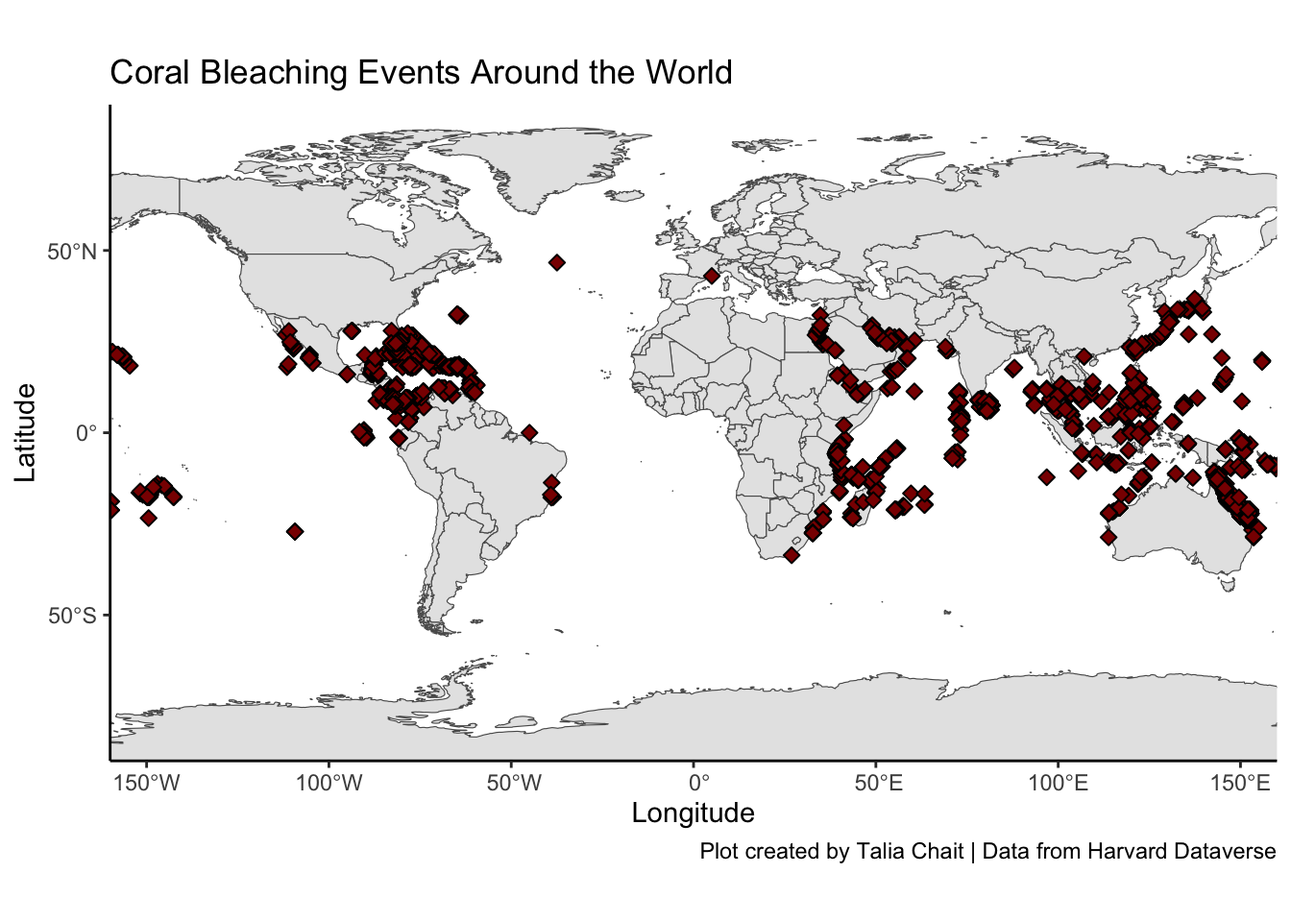
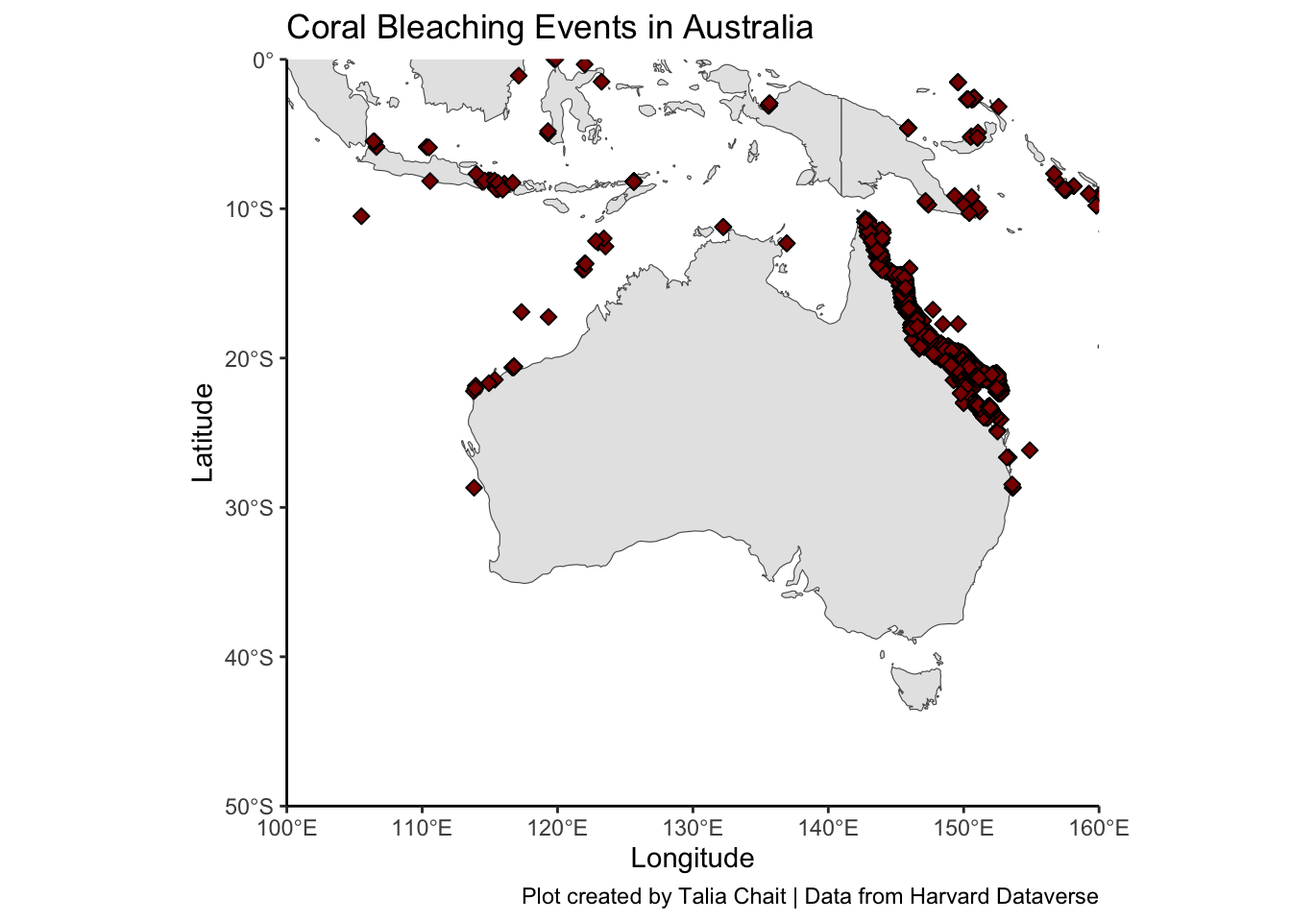
changed coral bleaching tab info

diff --git a/oceanhealth_website/_site/coralbleaching 2.html b/oceanhealth_website/_site/coralbleaching 2.html
@@ -189,6 +189,7 @@ code span.wa { color: #60a0b0; font-weight: bold; font-style: italic; } /* Warni
   <li><a href="#what-is-coral-bleaching" id="toc-what-is-coral-bleaching" class="nav-link active" data-scroll-target="#what-is-coral-bleaching">What is Coral Bleaching?</a></li>
   <li><a href="#why-is-it-important" id="toc-why-is-it-important" class="nav-link" data-scroll-target="#why-is-it-important">Why is it important?</a></li>
   <li><a href="#data-visualizations-and-results" id="toc-data-visualizations-and-results" class="nav-link" data-scroll-target="#data-visualizations-and-results">Data, Visualizations, and Results</a></li>
+  <li><a href="#australia-spatial-viz" id="toc-australia-spatial-viz" class="nav-link" data-scroll-target="#australia-spatial-viz">Australia Spatial Viz</a></li>
   <li><a href="#resources" id="toc-resources" class="nav-link" data-scroll-target="#resources">Resources</a></li>
   </ul>
 </nav>
@@ -231,8 +232,6 @@ code span.wa { color: #60a0b0; font-weight: bold; font-style: italic; } /* Warni
 <h3 class="anchored" data-anchor-id="data-visualizations-and-results">Data, Visualizations, and Results</h3>
 <p>Data was obtained from Harvard Dataverse <a href="https://dataverse.harvard.edu/file.xhtml?persistentId=doi:10.7910/DVN/KUVQKY/PAMLRZ&amp;version=1.4">(link to data)</a> which is a free data repository that is open to all researchers from any discipline (both inside and outside of Harvard University). It allows researchers to share, archive, cite, and access different data-sets. It was published to the repository in 2016 but has data from the mid 1800s.</p>
 <p>Since this data-set is on corals, the ethical issues have to do with gathering information from marine life and and how much the data collection could cause harms. While the harms are minor, the benefits of this data being collected goes well beyond the health of the corals. This is because coral bleaching is an indicator of climate change so collecting data on the health of corals could have lasting impacts on reducing global warming.</p>
-<section id="el-niñola-niña-events-and-coral-bleaching" class="level4">
-<h4 class="anchored" data-anchor-id="el-niñola-niña-events-and-coral-bleaching">El Niño/La Niña Events and Coral Bleaching</h4>
 <div class="cell">
 <details>
 <summary>Code</summary>
@@ -297,7 +296,7 @@ code span.wa { color: #60a0b0; font-weight: bold; font-style: italic; } /* Warni
 <span id="cb2-24"><a href="#cb2-24" aria-hidden="true" tabindex="-1"></a>       <span class="at">subtitle =</span> <span class="st">"(from 1991 to 2009)"</span>,</span>
 <span id="cb2-25"><a href="#cb2-25" aria-hidden="true" tabindex="-1"></a>       <span class="at">caption =</span> <span class="st">"Plot by: Talia Chait | Data Source: Harvard Dataverse"</span>,</span>
 <span id="cb2-26"><a href="#cb2-26" aria-hidden="true" tabindex="-1"></a>       <span class="at">color =</span> <span class="cn">NULL</span>) <span class="sc">+</span></span>
-<span id="cb2-27"><a href="#cb2-27" aria-hidden="true" tabindex="-1"></a>  <span class="fu">theme</span>(<span class="at">legend.position =</span> <span class="st">"none"</span>,</span>
+<span id="cb2-27"><a href="#cb2-27" aria-hidden="true" tabindex="-1"></a>   <span class="fu">theme</span>(<span class="at">legend.position =</span> <span class="st">"none"</span>,</span>
 <span id="cb2-28"><a href="#cb2-28" aria-hidden="true" tabindex="-1"></a>        <span class="at">plot.title =</span> <span class="fu">element_text</span>(<span class="at">family =</span> <span class="st">"mono"</span>, <span class="at">face =</span> <span class="st">"bold"</span>, <span class="at">size =</span> <span class="dv">12</span>, ),</span>
 <span id="cb2-29"><a href="#cb2-29" aria-hidden="true" tabindex="-1"></a>        <span class="at">plot.title.position =</span> <span class="st">"plot"</span>,</span>
 <span id="cb2-30"><a href="#cb2-30" aria-hidden="true" tabindex="-1"></a>        <span class="at">plot.caption =</span> <span class="fu">element_text</span>(<span class="at">family =</span> <span class="st">"mono"</span>),</span>
@@ -314,8 +313,8 @@ code span.wa { color: #60a0b0; font-weight: bold; font-style: italic; } /* Warni
 </div>
 </div>
 </section>
-<section id="spatial-visualizations" class="level4">
-<h4 class="anchored" data-anchor-id="spatial-visualizations">Spatial Visualizations</h4>
+<section id="australia-spatial-viz" class="level3">
+<h3 class="anchored" data-anchor-id="australia-spatial-viz">Australia Spatial Viz</h3>
 <div class="cell">
 <details>
 <summary>Code</summary>
@@ -323,7 +322,7 @@ code span.wa { color: #60a0b0; font-weight: bold; font-style: italic; } /* Warni
 <span id="cb4-2"><a href="#cb4-2" aria-hidden="true" tabindex="-1"></a>  <span class="fu">geom_sf</span>() <span class="sc">+</span></span>
 <span id="cb4-3"><a href="#cb4-3" aria-hidden="true" tabindex="-1"></a>  <span class="fu">geom_point</span>(<span class="at">data =</span> coralbleaching, <span class="fu">aes</span>(<span class="at">x =</span> LON, <span class="at">y =</span> LAT), <span class="at">size =</span> <span class="dv">2</span>, </span>
 <span id="cb4-4"><a href="#cb4-4" aria-hidden="true" tabindex="-1"></a>        <span class="at">shape =</span> <span class="dv">23</span>, <span class="at">fill =</span> <span class="st">"darkred"</span>) <span class="sc">+</span></span>
-<span id="cb4-5"><a href="#cb4-5" aria-hidden="true" tabindex="-1"></a>  <span class="fu">coord_sf</span>(<span class="at">xlim =</span> <span class="fu">c</span>(<span class="dv">100</span>, <span class="dv">160</span>), <span class="at">ylim =</span> <span class="fu">c</span>(<span class="sc">-</span><span class="dv">50</span>, <span class="dv">0</span>), <span class="at">expand =</span> <span class="cn">FALSE</span>) <span class="sc">+</span></span>
+<span id="cb4-5"><a href="#cb4-5" aria-hidden="true" tabindex="-1"></a>  <span class="fu">coord_sf</span>(<span class="at">xlim =</span> <span class="fu">c</span>(<span class="sc">-</span><span class="dv">160</span>, <span class="dv">160</span>), <span class="at">ylim =</span> <span class="fu">c</span>(<span class="sc">-</span><span class="dv">90</span>, <span class="dv">90</span>), <span class="at">expand =</span> <span class="cn">FALSE</span>) <span class="sc">+</span></span>
 <span id="cb4-6"><a href="#cb4-6" aria-hidden="true" tabindex="-1"></a>  <span class="fu">theme</span>(<span class="at">plot.title =</span> <span class="fu">element_text</span>(<span class="at">family =</span> <span class="st">"mono"</span>, <span class="at">face =</span> <span class="st">"bold"</span>, <span class="at">size =</span> <span class="dv">12</span>, ),</span>
 <span id="cb4-7"><a href="#cb4-7" aria-hidden="true" tabindex="-1"></a>        <span class="at">plot.title.position =</span> <span class="st">"plot"</span>,</span>
 <span id="cb4-8"><a href="#cb4-8" aria-hidden="true" tabindex="-1"></a>        <span class="at">plot.caption =</span> <span class="fu">element_text</span>(<span class="at">family =</span> <span class="st">"mono"</span>),</span>
@@ -331,7 +330,7 @@ code span.wa { color: #60a0b0; font-weight: bold; font-style: italic; } /* Warni
 <span id="cb4-10"><a href="#cb4-10" aria-hidden="true" tabindex="-1"></a>        <span class="at">axis.title.y =</span> <span class="fu">element_text</span>(<span class="at">family =</span> <span class="st">"mono"</span>),</span>
 <span id="cb4-11"><a href="#cb4-11" aria-hidden="true" tabindex="-1"></a>        <span class="at">axis.title.x =</span> <span class="fu">element_text</span>(<span class="at">family =</span> <span class="st">"mono"</span>, <span class="at">vjust =</span> <span class="fl">0.5</span>)) <span class="sc">+</span></span>
 <span id="cb4-12"><a href="#cb4-12" aria-hidden="true" tabindex="-1"></a>  <span class="fu">theme_classic</span>() <span class="sc">+</span> </span>
-<span id="cb4-13"><a href="#cb4-13" aria-hidden="true" tabindex="-1"></a>  <span class="fu">labs</span>(<span class="at">title =</span> <span class="st">"Coral Bleaching Events in Australia"</span>,</span>
+<span id="cb4-13"><a href="#cb4-13" aria-hidden="true" tabindex="-1"></a>  <span class="fu">labs</span>(<span class="at">title =</span> <span class="st">"Coral Bleaching Events Around the World"</span>,</span>
 <span id="cb4-14"><a href="#cb4-14" aria-hidden="true" tabindex="-1"></a>       <span class="at">y =</span> <span class="st">"Latitude"</span>,</span>
 <span id="cb4-15"><a href="#cb4-15" aria-hidden="true" tabindex="-1"></a>       <span class="at">x =</span> <span class="st">"Longitude"</span>,</span>
 <span id="cb4-16"><a href="#cb4-16" aria-hidden="true" tabindex="-1"></a>       <span class="at">caption =</span> <span class="st">"Plot created by Talia Chait | Data from Harvard Dataverse"</span>)</span></code><button title="Copy to Clipboard" class="code-copy-button"><i class="bi"></i></button></pre></div>
@@ -339,33 +338,51 @@ code span.wa { color: #60a0b0; font-weight: bold; font-style: italic; } /* Warni
 <div class="cell-output-display">
 <p><img src="coralbleaching_files/figure-html/unnamed-chunk-4-1.png" class="img-fluid" width="672"></p>
 </div>
-</div>
-<div class="cell">
 <details>
 <summary>Code</summary>
 <div class="sourceCode cell-code" id="cb5"><pre class="sourceCode r code-with-copy"><code class="sourceCode r"><span id="cb5-1"><a href="#cb5-1" aria-hidden="true" tabindex="-1"></a><span class="fu">ggplot</span>(<span class="at">data =</span> world) <span class="sc">+</span></span>
 <span id="cb5-2"><a href="#cb5-2" aria-hidden="true" tabindex="-1"></a>  <span class="fu">geom_sf</span>() <span class="sc">+</span></span>
-<span id="cb5-3"><a href="#cb5-3" aria-hidden="true" tabindex="-1"></a>  <span class="fu">geom_point</span>(<span class="at">data =</span> coralbleachmedhigh, <span class="fu">aes</span>(<span class="at">x =</span> LON, <span class="at">y =</span> LAT, <span class="at">fill =</span> BLEACHING_SEVERITY), <span class="at">size =</span> <span class="dv">2</span>, <span class="at">shape =</span> <span class="dv">23</span>) <span class="sc">+</span></span>
-<span id="cb5-4"><a href="#cb5-4" aria-hidden="true" tabindex="-1"></a>  <span class="fu">facet_wrap</span>(<span class="sc">~</span>YEAR) <span class="sc">+</span> </span>
-<span id="cb5-5"><a href="#cb5-5" aria-hidden="true" tabindex="-1"></a>  <span class="fu">coord_sf</span>(<span class="at">xlim =</span> <span class="fu">c</span>(<span class="dv">140</span>, <span class="dv">160</span>), <span class="at">ylim =</span> <span class="fu">c</span>(<span class="sc">-</span><span class="dv">30</span>, <span class="sc">-</span><span class="dv">10</span>), <span class="at">expand =</span> <span class="cn">FALSE</span>) <span class="sc">+</span></span>
-<span id="cb5-6"><a href="#cb5-6" aria-hidden="true" tabindex="-1"></a>  <span class="fu">theme_classic</span>() <span class="sc">+</span> </span>
-<span id="cb5-7"><a href="#cb5-7" aria-hidden="true" tabindex="-1"></a>  <span class="fu">labs</span>(<span class="at">title =</span> <span class="st">"Coral Bleaching Events in Australia"</span>,</span>
-<span id="cb5-8"><a href="#cb5-8" aria-hidden="true" tabindex="-1"></a>       <span class="at">subtitle =</span> <span class="st">"near Great Barrier Reef"</span>,</span>
-<span id="cb5-9"><a href="#cb5-9" aria-hidden="true" tabindex="-1"></a>       <span class="at">y =</span> <span class="st">""</span>,</span>
-<span id="cb5-10"><a href="#cb5-10" aria-hidden="true" tabindex="-1"></a>       <span class="at">x =</span> <span class="st">""</span>,</span>
-<span id="cb5-11"><a href="#cb5-11" aria-hidden="true" tabindex="-1"></a>       <span class="at">fill =</span> <span class="st">"Bleaching Severity"</span>,</span>
-<span id="cb5-12"><a href="#cb5-12" aria-hidden="true" tabindex="-1"></a>       <span class="at">caption =</span> <span class="st">"Plot created by Talia Chait | Data from Harvard Dataverse"</span>) <span class="sc">+</span></span>
-<span id="cb5-13"><a href="#cb5-13" aria-hidden="true" tabindex="-1"></a>  <span class="fu">theme</span>(<span class="at">plot.title =</span> <span class="fu">element_text</span>(<span class="at">family =</span> <span class="st">"mono"</span>, <span class="at">face =</span> <span class="st">"bold"</span>, <span class="at">size =</span> <span class="dv">12</span>, ),</span>
-<span id="cb5-14"><a href="#cb5-14" aria-hidden="true" tabindex="-1"></a>        <span class="at">plot.title.position =</span> <span class="st">"panel"</span>,</span>
-<span id="cb5-15"><a href="#cb5-15" aria-hidden="true" tabindex="-1"></a>        <span class="at">plot.caption =</span> <span class="fu">element_text</span>(<span class="at">family =</span> <span class="st">"mono"</span>),</span>
-<span id="cb5-16"><a href="#cb5-16" aria-hidden="true" tabindex="-1"></a>        <span class="at">plot.subtitle =</span> <span class="fu">element_text</span>(<span class="at">family =</span> <span class="st">"mono"</span>),</span>
-<span id="cb5-17"><a href="#cb5-17" aria-hidden="true" tabindex="-1"></a>        <span class="at">legend.position =</span> <span class="st">"bottom"</span>)</span></code><button title="Copy to Clipboard" class="code-copy-button"><i class="bi"></i></button></pre></div>
+<span id="cb5-3"><a href="#cb5-3" aria-hidden="true" tabindex="-1"></a>  <span class="fu">geom_point</span>(<span class="at">data =</span> coralbleaching, <span class="fu">aes</span>(<span class="at">x =</span> LON, <span class="at">y =</span> LAT), <span class="at">size =</span> <span class="dv">2</span>, </span>
+<span id="cb5-4"><a href="#cb5-4" aria-hidden="true" tabindex="-1"></a>        <span class="at">shape =</span> <span class="dv">23</span>, <span class="at">fill =</span> <span class="st">"darkred"</span>) <span class="sc">+</span></span>
+<span id="cb5-5"><a href="#cb5-5" aria-hidden="true" tabindex="-1"></a>  <span class="fu">coord_sf</span>(<span class="at">xlim =</span> <span class="fu">c</span>(<span class="dv">100</span>, <span class="dv">160</span>), <span class="at">ylim =</span> <span class="fu">c</span>(<span class="sc">-</span><span class="dv">50</span>, <span class="dv">0</span>), <span class="at">expand =</span> <span class="cn">FALSE</span>) <span class="sc">+</span></span>
+<span id="cb5-6"><a href="#cb5-6" aria-hidden="true" tabindex="-1"></a>  <span class="fu">theme</span>(<span class="at">plot.title =</span> <span class="fu">element_text</span>(<span class="at">family =</span> <span class="st">"mono"</span>, <span class="at">face =</span> <span class="st">"bold"</span>, <span class="at">size =</span> <span class="dv">12</span>, ),</span>
+<span id="cb5-7"><a href="#cb5-7" aria-hidden="true" tabindex="-1"></a>        <span class="at">plot.title.position =</span> <span class="st">"plot"</span>,</span>
+<span id="cb5-8"><a href="#cb5-8" aria-hidden="true" tabindex="-1"></a>        <span class="at">plot.caption =</span> <span class="fu">element_text</span>(<span class="at">family =</span> <span class="st">"mono"</span>),</span>
+<span id="cb5-9"><a href="#cb5-9" aria-hidden="true" tabindex="-1"></a>        <span class="at">plot.subtitle =</span> <span class="fu">element_text</span>(<span class="at">family =</span> <span class="st">"mono"</span>),</span>
+<span id="cb5-10"><a href="#cb5-10" aria-hidden="true" tabindex="-1"></a>        <span class="at">axis.title.y =</span> <span class="fu">element_text</span>(<span class="at">family =</span> <span class="st">"mono"</span>),</span>
+<span id="cb5-11"><a href="#cb5-11" aria-hidden="true" tabindex="-1"></a>        <span class="at">axis.title.x =</span> <span class="fu">element_text</span>(<span class="at">family =</span> <span class="st">"mono"</span>, <span class="at">vjust =</span> <span class="fl">0.5</span>)) <span class="sc">+</span></span>
+<span id="cb5-12"><a href="#cb5-12" aria-hidden="true" tabindex="-1"></a>  <span class="fu">theme_classic</span>() <span class="sc">+</span> </span>
+<span id="cb5-13"><a href="#cb5-13" aria-hidden="true" tabindex="-1"></a>  <span class="fu">labs</span>(<span class="at">title =</span> <span class="st">"Coral Bleaching Events in Australia"</span>,</span>
+<span id="cb5-14"><a href="#cb5-14" aria-hidden="true" tabindex="-1"></a>       <span class="at">y =</span> <span class="st">"Latitude"</span>,</span>
+<span id="cb5-15"><a href="#cb5-15" aria-hidden="true" tabindex="-1"></a>       <span class="at">x =</span> <span class="st">"Longitude"</span>,</span>
+<span id="cb5-16"><a href="#cb5-16" aria-hidden="true" tabindex="-1"></a>       <span class="at">caption =</span> <span class="st">"Plot created by Talia Chait | Data from Harvard Dataverse"</span>)</span></code><button title="Copy to Clipboard" class="code-copy-button"><i class="bi"></i></button></pre></div>
 </details>
 <div class="cell-output-display">
-<p><img src="coralbleaching_files/figure-html/unnamed-chunk-5-1.png" class="img-fluid" width="672"></p>
+<p><img src="coralbleaching_files/figure-html/unnamed-chunk-4-2.png" class="img-fluid" width="672"></p>
+</div>
+<details>
+<summary>Code</summary>
+<div class="sourceCode cell-code" id="cb6"><pre class="sourceCode r code-with-copy"><code class="sourceCode r"><span id="cb6-1"><a href="#cb6-1" aria-hidden="true" tabindex="-1"></a><span class="fu">ggplot</span>(<span class="at">data =</span> world) <span class="sc">+</span></span>
+<span id="cb6-2"><a href="#cb6-2" aria-hidden="true" tabindex="-1"></a>  <span class="fu">geom_sf</span>() <span class="sc">+</span></span>
+<span id="cb6-3"><a href="#cb6-3" aria-hidden="true" tabindex="-1"></a>  <span class="fu">geom_point</span>(<span class="at">data =</span> coralbleaching, <span class="fu">aes</span>(<span class="at">x =</span> LON, <span class="at">y =</span> LAT, <span class="at">fill =</span> BLEACHING_SEVERITY), <span class="at">size =</span> <span class="dv">2</span>, </span>
+<span id="cb6-4"><a href="#cb6-4" aria-hidden="true" tabindex="-1"></a>        <span class="at">shape =</span> <span class="dv">23</span>) <span class="sc">+</span></span>
+<span id="cb6-5"><a href="#cb6-5" aria-hidden="true" tabindex="-1"></a>  <span class="fu">coord_sf</span>(<span class="at">xlim =</span> <span class="fu">c</span>(<span class="dv">140</span>, <span class="dv">160</span>), <span class="at">ylim =</span> <span class="fu">c</span>(<span class="sc">-</span><span class="dv">30</span>, <span class="sc">-</span><span class="dv">10</span>), <span class="at">expand =</span> <span class="cn">FALSE</span>) <span class="sc">+</span></span>
+<span id="cb6-6"><a href="#cb6-6" aria-hidden="true" tabindex="-1"></a>  <span class="fu">theme</span>(<span class="at">plot.title =</span> <span class="fu">element_text</span>(<span class="at">family =</span> <span class="st">"mono"</span>, <span class="at">face =</span> <span class="st">"bold"</span>, <span class="at">size =</span> <span class="dv">12</span>, ),</span>
+<span id="cb6-7"><a href="#cb6-7" aria-hidden="true" tabindex="-1"></a>        <span class="at">plot.title.position =</span> <span class="st">"plot"</span>,</span>
+<span id="cb6-8"><a href="#cb6-8" aria-hidden="true" tabindex="-1"></a>        <span class="at">plot.caption =</span> <span class="fu">element_text</span>(<span class="at">family =</span> <span class="st">"mono"</span>),</span>
+<span id="cb6-9"><a href="#cb6-9" aria-hidden="true" tabindex="-1"></a>        <span class="at">plot.subtitle =</span> <span class="fu">element_text</span>(<span class="at">family =</span> <span class="st">"mono"</span>),</span>
+<span id="cb6-10"><a href="#cb6-10" aria-hidden="true" tabindex="-1"></a>        <span class="at">axis.title.y =</span> <span class="fu">element_text</span>(<span class="at">family =</span> <span class="st">"mono"</span>),</span>
+<span id="cb6-11"><a href="#cb6-11" aria-hidden="true" tabindex="-1"></a>        <span class="at">axis.title.x =</span> <span class="fu">element_text</span>(<span class="at">family =</span> <span class="st">"mono"</span>, <span class="at">vjust =</span> <span class="fl">0.5</span>)) <span class="sc">+</span></span>
+<span id="cb6-12"><a href="#cb6-12" aria-hidden="true" tabindex="-1"></a>  <span class="fu">theme_classic</span>() <span class="sc">+</span> </span>
+<span id="cb6-13"><a href="#cb6-13" aria-hidden="true" tabindex="-1"></a>  <span class="fu">labs</span>(<span class="at">title =</span> <span class="st">"Coral Bleaching Events in Australia (near Great Barrier Reef)"</span>,</span>
+<span id="cb6-14"><a href="#cb6-14" aria-hidden="true" tabindex="-1"></a>       <span class="at">y =</span> <span class="st">"Latitude"</span>,</span>
+<span id="cb6-15"><a href="#cb6-15" aria-hidden="true" tabindex="-1"></a>       <span class="at">x =</span> <span class="st">"Longitude"</span>,</span>
+<span id="cb6-16"><a href="#cb6-16" aria-hidden="true" tabindex="-1"></a>       <span class="at">caption =</span> <span class="st">"Plot created by Talia Chait | Data from Harvard Dataverse"</span>)</span></code><button title="Copy to Clipboard" class="code-copy-button"><i class="bi"></i></button></pre></div>
+</details>
+<div class="cell-output-display">
+<p><img src="coralbleaching_files/figure-html/unnamed-chunk-4-3.png" class="img-fluid" width="672"></p>
 </div>
 </div>
-</section>
 </section>
 <section id="resources" class="level3">
 <h3 class="anchored" data-anchor-id="resources">Resources</h3>

diff --git a/oceanhealth_website/_site/index.html b/oceanhealth_website/_site/index.html
@@ -164,7 +164,7 @@ code span.wa { color: #60a0b0; font-weight: bold; font-style: italic; } /* Warni
   </li>  
   <li class="nav-item">
     <a class="nav-link" href="./about.html">
- <span class="menu-text">About Us</span></a>
+ <span class="menu-text">About</span></a>
   </li>  
   <li class="nav-item compact">
     <a class="nav-link" href="https://github.com/lescobos/amelia-talia-lorena-456project"><i class="bi bi-github" role="img">
@@ -233,32 +233,6 @@ code span.wa { color: #60a0b0; font-weight: bold; font-style: italic; } /* Warni
 </div>
 <p>In order to dive deeper into the effects of climate change on ocean health, we considered 3 different locations all around the world that we are calling “case studies” all of which help answer our research questions: 1) How is ocean health changing over time? and 2) How is ocean health changing due to climate change?</p>
 <p>The first case study looks into coral bleaching specifically in Australia, where the Great Barrier Reef is, and tackles the effects of La Niña vs El Niño. The second case study looks into chemicals off the coast of Santa Barbara, California, USA to take a different approach on how ocean health is chaning over time. The third case study looks into fish populations in the Mediterranean Sea as an indicator of ocean health. The tabs on this website correspond to each of the case studies, so please click on whichever tab you are most interested in to learn more about that topic!</p>
-<div class="cell">
-<details>
-<summary>Code</summary>
-<div class="sourceCode cell-code" id="cb2"><pre class="sourceCode r code-with-copy"><code class="sourceCode r"><span id="cb2-1"><a href="#cb2-1" aria-hidden="true" tabindex="-1"></a><span class="fu">ggplot</span>(<span class="at">data =</span> world) <span class="sc">+</span> </span>
-<span id="cb2-2"><a href="#cb2-2" aria-hidden="true" tabindex="-1"></a>  <span class="fu">geom_sf</span>() <span class="sc">+</span> </span>
-<span id="cb2-3"><a href="#cb2-3" aria-hidden="true" tabindex="-1"></a>  <span class="fu">annotate</span>(<span class="st">"point"</span>, <span class="at">x =</span> <span class="dv">134</span>, <span class="at">y =</span> <span class="sc">-</span><span class="dv">25</span>, <span class="at">color =</span> <span class="st">"cyan1"</span>, <span class="at">size =</span> <span class="dv">4</span>) <span class="sc">+</span> </span>
-<span id="cb2-4"><a href="#cb2-4" aria-hidden="true" tabindex="-1"></a>  <span class="fu">annotate</span>(<span class="st">"label"</span>, <span class="at">x =</span> <span class="dv">137</span>, <span class="at">y =</span> <span class="sc">-</span><span class="dv">37</span>, <span class="at">label =</span> <span class="st">"Case Study 1"</span>) <span class="sc">+</span></span>
-<span id="cb2-5"><a href="#cb2-5" aria-hidden="true" tabindex="-1"></a>  <span class="fu">annotate</span>(<span class="st">"point"</span>, <span class="at">x =</span> <span class="sc">-</span><span class="dv">120</span>, <span class="at">y =</span> <span class="dv">34</span>, <span class="at">color =</span> <span class="st">"orange"</span>, <span class="at">size =</span> <span class="dv">4</span>) <span class="sc">+</span> </span>
-<span id="cb2-6"><a href="#cb2-6" aria-hidden="true" tabindex="-1"></a>  <span class="fu">annotate</span>(<span class="st">"label"</span>, <span class="at">x =</span> <span class="sc">-</span><span class="dv">120</span>, <span class="at">y =</span> <span class="dv">22</span>, <span class="at">label =</span> <span class="st">"Case Study 2"</span>) <span class="sc">+</span></span>
-<span id="cb2-7"><a href="#cb2-7" aria-hidden="true" tabindex="-1"></a>  <span class="fu">annotate</span>(<span class="st">"point"</span>, <span class="at">x =</span> <span class="dv">19</span>, <span class="at">y =</span> <span class="dv">35</span>, <span class="at">color =</span> <span class="st">"hotpink"</span>, <span class="at">size =</span> <span class="dv">4</span>) <span class="sc">+</span> </span>
-<span id="cb2-8"><a href="#cb2-8" aria-hidden="true" tabindex="-1"></a>  <span class="fu">annotate</span>(<span class="st">"label"</span>, <span class="at">x =</span> <span class="dv">19</span>, <span class="at">y =</span> <span class="dv">47</span>, <span class="at">label =</span> <span class="st">"Case Study 3"</span>) <span class="sc">+</span></span>
-<span id="cb2-9"><a href="#cb2-9" aria-hidden="true" tabindex="-1"></a>  <span class="fu">theme_classic</span>() <span class="sc">+</span></span>
-<span id="cb2-10"><a href="#cb2-10" aria-hidden="true" tabindex="-1"></a>  <span class="fu">labs</span> (<span class="at">y =</span> <span class="st">""</span>, </span>
-<span id="cb2-11"><a href="#cb2-11" aria-hidden="true" tabindex="-1"></a>        <span class="at">x =</span> <span class="st">""</span>,</span>
-<span id="cb2-12"><a href="#cb2-12" aria-hidden="true" tabindex="-1"></a>        <span class="at">title =</span> <span class="st">"Overview of Case Study Locations"</span>) <span class="sc">+</span> </span>
-<span id="cb2-13"><a href="#cb2-13" aria-hidden="true" tabindex="-1"></a>  <span class="fu">theme</span>(<span class="at">plot.title =</span> <span class="fu">element_text</span>(<span class="at">family =</span> <span class="st">"mono"</span>, <span class="at">face =</span> <span class="st">"bold"</span>, <span class="at">size =</span> <span class="dv">12</span>, ),</span>
-<span id="cb2-14"><a href="#cb2-14" aria-hidden="true" tabindex="-1"></a>        <span class="at">plot.title.position =</span> <span class="st">"plot"</span>,</span>
-<span id="cb2-15"><a href="#cb2-15" aria-hidden="true" tabindex="-1"></a>        <span class="at">plot.caption =</span> <span class="fu">element_text</span>(<span class="at">family =</span> <span class="st">"mono"</span>),</span>
-<span id="cb2-16"><a href="#cb2-16" aria-hidden="true" tabindex="-1"></a>        <span class="at">plot.subtitle =</span> <span class="fu">element_text</span>(<span class="at">family =</span> <span class="st">"mono"</span>),</span>
-<span id="cb2-17"><a href="#cb2-17" aria-hidden="true" tabindex="-1"></a>        <span class="at">axis.title.y =</span> <span class="fu">element_text</span>(<span class="at">family =</span> <span class="st">"mono"</span>),</span>
-<span id="cb2-18"><a href="#cb2-18" aria-hidden="true" tabindex="-1"></a>        <span class="at">axis.title.x =</span> <span class="fu">element_text</span>(<span class="at">family =</span> <span class="st">"mono"</span>, <span class="at">vjust =</span> <span class="fl">0.5</span>))</span></code><button title="Copy to Clipboard" class="code-copy-button"><i class="bi"></i></button></pre></div>
-</details>
-<div class="cell-output-display">
-<p><img src="index_files/figure-html/unnamed-chunk-4-1.png" class="img-fluid" width="672"></p>
-</div>
-</div>
 
 
 
